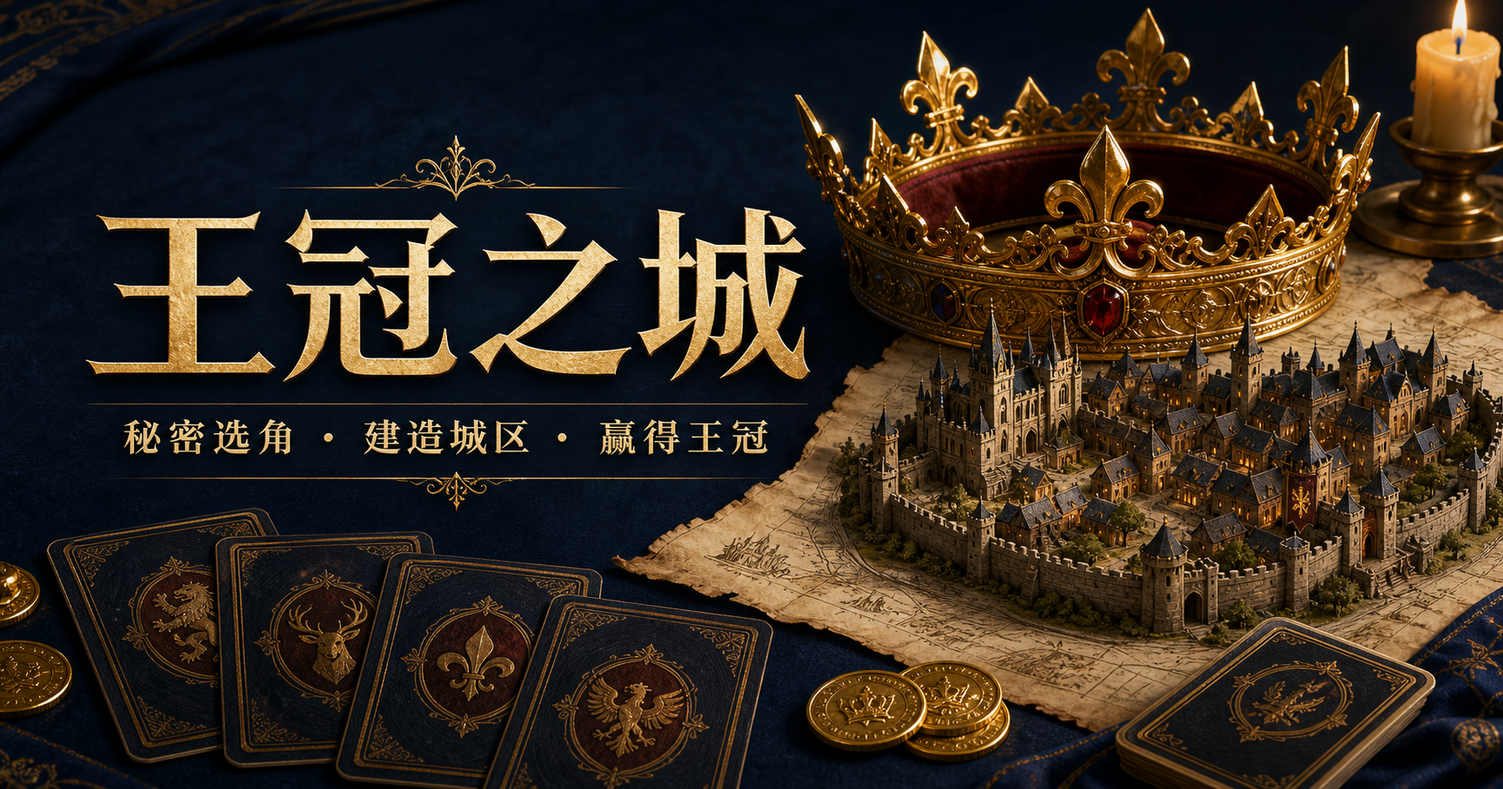
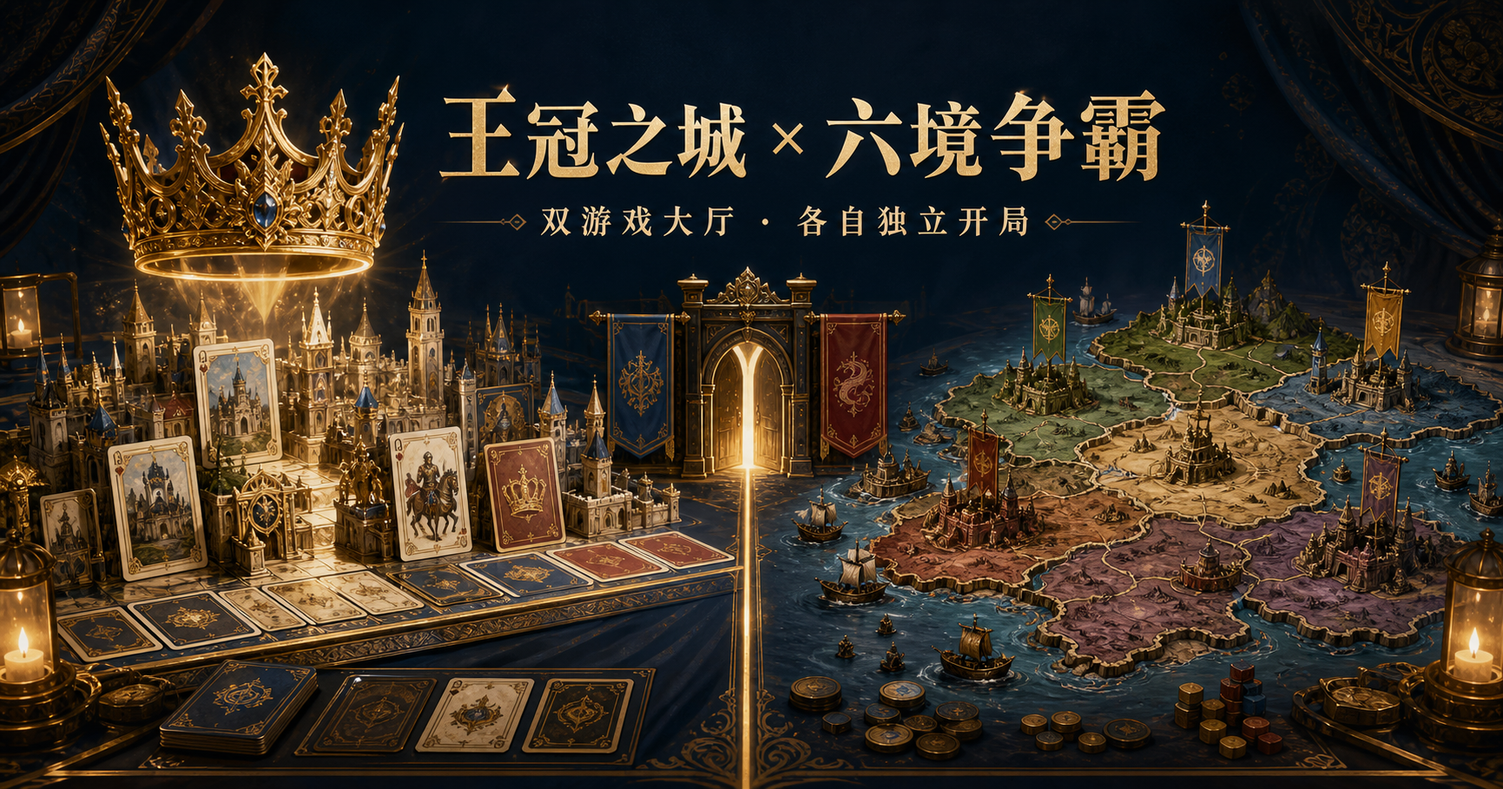
feat: split games into dedicated entrances

diff --git a/app/globals.css b/app/globals.css
@@ -31,7 +31,7 @@ button, input, select { font: inherit; }
 button { cursor: pointer; }
 button:disabled { cursor: not-allowed; opacity: 0.46; }
 
-.realms-entry-link {
+.game-hub-link {
   display: flex;
   align-items: center;
   gap: .8rem;
@@ -44,12 +44,110 @@ button:disabled { cursor: not-allowed; opacity: 0.46; }
   text-decoration: none;
   box-shadow: 0 10px 24px rgba(11, 19, 33, .16);
 }
-.realms-entry-link > span { color: var(--gold-light); font-size: 1.4rem; }
-.realms-entry-link > div { display: grid; flex: 1; gap: .1rem; }
-.realms-entry-link strong { font: 800 .82rem "Songti SC", "STSong", Georgia, serif; }
-.realms-entry-link small { color: rgba(248, 240, 223, .62); font-size: .62rem; }
-.realms-entry-link > b { color: var(--gold-light); transition: transform .18s ease; }
-.realms-entry-link:hover > b { transform: translateX(.25rem); }
+.game-hub-link > span { color: var(--gold-light); font-size: 1.4rem; }
+.game-hub-link > div { display: grid; flex: 1; gap: .1rem; }
+.game-hub-link strong { font: 800 .82rem "Songti SC", "STSong", Georgia, serif; }
+.game-hub-link small { color: rgba(248, 240, 223, .62); font-size: .62rem; }
+.game-hub-link > b { color: var(--gold-light); transition: transform .18s ease; }
+.game-hub-link:hover > b { transform: translateX(.25rem); }
+
+.hub-shell {
+  position: relative;
+  min-height: 100vh;
+  overflow: hidden;
+  color: #f8f0df;
+  background:
+    radial-gradient(circle at 12% 42%, rgba(201, 155, 69, .15), transparent 28rem),
+    radial-gradient(circle at 88% 45%, rgba(73, 122, 126, .16), transparent 30rem),
+    linear-gradient(135deg, #0d1625 0%, #15233a 50%, #0d1d25 100%);
+  isolation: isolate;
+}
+.hub-shell::before {
+  content: "";
+  position: absolute;
+  z-index: -1;
+  inset: 1.2rem;
+  border: 1px solid rgba(231, 201, 135, .14);
+  pointer-events: none;
+}
+.hub-header {
+  width: min(86rem, calc(100% - 3rem));
+  min-height: 5rem;
+  margin: 0 auto;
+  display: flex;
+  align-items: center;
+  justify-content: space-between;
+  gap: 1rem;
+  border-bottom: 1px solid rgba(231, 201, 135, .16);
+}
+.hub-brand { display: flex; align-items: center; gap: .65rem; color: inherit; text-decoration: none; }
+.hub-brand span { color: var(--gold-light); font-size: 1.5rem; }
+.hub-brand b { font: 900 .82rem "Songti SC", "STSong", Georgia, serif; letter-spacing: .16em; }
+.hub-language {
+  border: 1px solid rgba(232, 202, 131, .34);
+  border-radius: 999px;
+  padding: .42rem .72rem;
+  color: var(--gold-light);
+  background: rgba(255, 255, 255, .035);
+  font-size: .67rem;
+  font-weight: 900;
+}
+.hub-intro {
+  width: min(65rem, calc(100% - 3rem));
+  margin: clamp(3.3rem, 7vw, 6.5rem) auto clamp(2.2rem, 4vw, 3.5rem);
+  text-align: center;
+}
+.hub-kicker { margin: 0 0 1rem !important; color: var(--gold-light) !important; font: 800 .66rem Georgia, serif !important; letter-spacing: .42em; }
+.hub-intro h1 { margin: 0; font: 900 clamp(3.3rem, 7vw, 7rem)/.95 "Songti SC", "STSong", Georgia, serif; letter-spacing: -.055em; }
+.hub-intro > p:not(.hub-kicker) { max-width: 44rem; margin: 1.25rem auto 0; color: rgba(248, 240, 223, .6); font-size: .86rem; line-height: 1.85; }
+.hub-games {
+  width: min(76rem, calc(100% - 3rem));
+  margin: 0 auto;
+  display: grid;
+  grid-template-columns: repeat(2, minmax(0, 1fr));
+  gap: 1.2rem;
+}
+.hub-card {
+  position: relative;
+  min-width: 0;
+  overflow: hidden;
+  display: grid;
+  grid-template-columns: minmax(9rem, .75fr) minmax(0, 1.25fr);
+  min-height: 25rem;
+  color: inherit;
+  border: 1px solid rgba(234, 208, 150, .24);
+  background: rgba(255, 255, 255, .035);
+  text-decoration: none;
+  box-shadow: 0 24px 65px rgba(2, 8, 18, .24);
+  transition: transform .22s ease, border-color .22s ease, box-shadow .22s ease;
+}
+.hub-card:hover, .hub-card:focus-visible { transform: translateY(-5px); border-color: rgba(232, 202, 131, .58); box-shadow: 0 30px 78px rgba(2, 8, 18, .4); outline: none; }
+.hub-card-art { position: relative; overflow: hidden; display: grid; place-items: center; border-right: 1px solid rgba(234, 208, 150, .16); isolation: isolate; }
+.hub-city .hub-card-art { background: radial-gradient(circle at 50% 38%, rgba(226, 180, 82, .28), transparent 10rem), linear-gradient(165deg, #26334b, #151d2e); }
+.hub-realms .hub-card-art { background: radial-gradient(circle at 50% 42%, rgba(124, 158, 139, .26), transparent 10rem), linear-gradient(165deg, #274144, #142427); }
+.hub-card-art::before, .hub-card-art::after { content: ""; position: absolute; z-index: -1; border: 1px solid rgba(232, 202, 131, .14); transform: rotate(45deg); }
+.hub-card-art::before { width: 13rem; height: 13rem; }
+.hub-card-art::after { width: 9rem; height: 9rem; }
+.hub-card-sigil { position: relative; z-index: 2; color: #d8ae5c; font-size: clamp(4rem, 8vw, 6.5rem); line-height: 1; filter: drop-shadow(0 16px 28px rgba(0, 0, 0, .35)); }
+.city-skyline { position: absolute; bottom: 0; width: 3.2rem; background: rgba(8, 14, 25, .62); clip-path: polygon(0 100%, 0 26%, 20% 26%, 20% 10%, 36% 10%, 50% 0, 64% 10%, 80% 10%, 80% 32%, 100% 32%, 100% 100%); }
+.city-skyline-one { left: 0; height: 8rem; }
+.city-skyline-two { left: 37%; width: 4rem; height: 6rem; }
+.city-skyline-three { right: 0; height: 9.5rem; }
+.realm-contour { position: absolute; border: 1px solid rgba(218, 195, 137, .25); background: rgba(199, 164, 88, .035); transform: rotate(-13deg); }
+.realm-contour-one { width: 9rem; height: 12rem; left: -3rem; top: 2rem; border-radius: 38% 62% 49% 51% / 62% 39% 61% 38%; }
+.realm-contour-two { width: 10rem; height: 11rem; right: -4rem; bottom: 1rem; border-radius: 63% 37% 32% 68% / 40% 52% 48% 60%; }
+.realm-contour-three { width: 6rem; height: 8rem; left: 37%; bottom: -3rem; border-radius: 45% 55% 67% 33% / 56% 45% 55% 44%; }
+.hub-card-copy { display: flex; flex-direction: column; padding: clamp(1.6rem, 3vw, 2.4rem); }
+.hub-card-number { color: var(--gold-light); font: 800 .58rem Georgia, serif; letter-spacing: .32em; }
+.hub-card h2 { margin: .75rem 0 1rem; font: 900 clamp(2.3rem, 4vw, 3.6rem)/1 "Songti SC", "STSong", Georgia, serif; letter-spacing: -.045em; }
+.hub-card-copy > p { margin: 0; min-height: 4.5rem; color: rgba(248, 240, 223, .61); font-size: .74rem; line-height: 1.75; }
+.hub-card ul { display: grid; gap: .55rem; margin: 1.1rem 0 2rem; padding: 0; list-style: none; color: rgba(248, 240, 223, .72); font-size: .65rem; }
+.hub-card li::before { content: "◆"; margin-right: .55rem; color: #d8ae5c; font-size: .45rem; }
+.hub-enter { margin-top: auto; display: flex; align-items: center; justify-content: space-between; padding-top: 1rem; border-top: 1px solid rgba(232, 202, 131, .18); color: #f3d58e; font: 900 .72rem "Songti SC", "STSong", Georgia, serif; letter-spacing: .08em; }
+.hub-enter b { font-size: 1.1rem; transition: transform .2s ease; }
+.hub-card:hover .hub-enter b { transform: translateX(.3rem); }
+.hub-footer { width: min(76rem, calc(100% - 3rem)); margin: 2rem auto 0; padding: 0 0 2.6rem; display: flex; justify-content: center; align-items: center; flex-wrap: wrap; gap: .75rem; color: rgba(248, 240, 223, .42); font-size: .6rem; letter-spacing: .08em; }
+.hub-footer i { width: 2px; height: 2px; border-radius: 50%; background: var(--gold); }
 
 .reference-link {
   display: inline;
@@ -296,7 +394,8 @@ button:disabled { cursor: not-allowed; opacity: 0.46; }
 .brand span { color: var(--gold-light); margin-right: 0.5rem; }
 .round-status { color: rgba(248, 240, 223, 0.72); font-size: 0.78rem; letter-spacing: 0.1em; }
 .round-status span { color: var(--gold-light); border: 1px solid rgba(232, 202, 131, 0.28); padding: 0.3rem 0.55rem; margin-right: 0.6rem; }
-.header-room, .header-recovery, .header-leave, .header-claim, .header-history, .header-sound { color: rgba(248, 240, 223, 0.7); background: transparent; border: 0; font-size: 0.68rem; white-space: nowrap; }
+.header-room, .header-recovery, .header-leave, .header-claim, .header-history, .header-sound, .header-hub { color: rgba(248, 240, 223, 0.7); background: transparent; border: 0; font-size: 0.68rem; white-space: nowrap; }
+.header-hub { color: var(--gold-light); text-decoration: none; }
 .header-recovery { color: var(--gold-light); border-bottom: 1px dashed rgba(232,202,131,.35); }
 .header-leave { color: #efb0a8; }
 .header-history { color: var(--gold-light); }
@@ -619,6 +718,8 @@ button:disabled { cursor: not-allowed; opacity: 0.46; }
 @keyframes counterspin { to { transform: rotate(-360deg); } }
 
 @media (max-width: 980px) {
+  .hub-games { max-width: 42rem; grid-template-columns: 1fr; }
+  .hub-card { min-height: 22rem; }
   .landing-shell { grid-template-columns: 1fr; }
   .landing-copy { min-height: auto; padding: 5rem 2rem; }
   .entry-panel { min-height: 35rem; padding: 3rem 2rem; }
@@ -631,6 +732,13 @@ button:disabled { cursor: not-allowed; opacity: 0.46; }
 }
 
 @media (max-width: 680px) {
+  .hub-shell::before { inset: .55rem; }
+  .hub-header, .hub-intro, .hub-games, .hub-footer { width: calc(100% - 2rem); }
+  .hub-intro { margin-top: 3rem; }
+  .hub-intro h1 { font-size: 3.35rem; }
+  .hub-card { grid-template-columns: 1fr; min-height: 0; }
+  .hub-card-art { min-height: 11rem; border-right: 0; border-bottom: 1px solid rgba(234, 208, 150, .16); }
+  .hub-card-copy > p { min-height: 0; }
   .landing-copy { padding: 4rem 1.3rem; }
   .landing-copy::before { inset: .75rem; }
   .landing-copy h1 { font-size: 4.4rem; }
@@ -640,6 +748,7 @@ button:disabled { cursor: not-allowed; opacity: 0.46; }
   .round-status { display: none; }
   .network-status { margin-left: 0; }
   .header-room, .header-recovery { order: 10; font-size: .6rem; }
+  .header-hub { font-size: .6rem; }
   .header-history, .header-sound { font-size: .6rem; }
   .header-leave { order: 11; }
   .game-header .language-toggle { padding: .32rem .55rem; }

diff --git a/app/GameClient.tsx b/app/GameClient.tsx
@@ -457,7 +457,7 @@ function Landing({ historyKey, onCreated, onOpenRules, onOpenHistory }: { histor
         <div className="divider"><span>{text("或者输入朋友的房间码", "Or enter a friend's room code")}</span></div>
         <div className="join-row"><input className="code-input" value={code} onChange={(event) => setCode(event.target.value.toUpperCase().replace(/[^A-Z0-9]/g, "").slice(0, 4))} placeholder="AB12" maxLength={4} aria-label={text("四位房间码", "Four-character room code")} /><button className="secondary-button" onClick={() => submit("join")} disabled={busy}>{text("加入房间", "Join room")}</button></div>
         <details className="recovery-entry"><summary>{text("换设备？用恢复码返回座位", "Changed devices? Recover your seat")}</summary><label>{text("10 位恢复码", "10-character recovery code")}<input value={recoveryCode} onChange={(event) => setRecoveryCode(event.target.value.toUpperCase().replace(/[^A-Z0-9]/g, "").slice(0, 10))} placeholder="ABCD23WXYZ" maxLength={10} autoComplete="off" /></label><button className="secondary-button" onClick={() => submit("recover")} disabled={busy || code.length !== 4 || recoveryCode.length !== 10}>{text("恢复原座位", "Recover seat")}</button></details>
-        {error && <p className="form-error" role="alert">{error}</p>}<button className="history-entry-button" onClick={onOpenHistory}>♜ {text("查看历史对局", "View match history")}</button><a className="realms-entry-link" href="/realms"><span>✦</span><div><strong>{text("进入《六境争霸》", "Enter The Six Realms")}</strong><small>{text("完整第二版式版图战争 · 3–6 人", "Complete second-edition-style realm war · 3–6 players")}</small></div><b>→</b></a><p className="fine-print">{text("无需注册或模型密钥。策略电脑由服务器按规则运行；完成的对局会保存到王城档案。", "No account or model key required. Strategy AI follows the rules on the server; completed matches are saved in the city archive.")}</p>
+        {error && <p className="form-error" role="alert">{error}</p>}<button className="history-entry-button" onClick={onOpenHistory}>♜ {text("查看历史对局", "View match history")}</button><a className="game-hub-link" href="/"><span>⌂</span><div><strong>{text("返回双游戏大厅", "Back to the game hall")}</strong><small>{text("切换至《六境争霸》或重新选择游戏", "Switch to The Six Realms or choose again")}</small></div><b>→</b></a><p className="fine-print">{text("无需注册或模型密钥。策略电脑由服务器按规则运行；完成的对局会保存到王城档案。", "No account or model key required. Strategy AI follows the rules on the server; completed matches are saved in the city archive.")}</p>
       </section>
     </main>
   );
@@ -481,7 +481,7 @@ function Lobby({ game, act }: { game: Game; act: Act }) {
   const ruleset = localizedRuleset({ ...game.ruleset, roleKeys: [], uniqueKeys: [] }, language);
   const [copied, setCopied] = useState(false);
   async function shareInvite() {
-    const url = `${window.location.origin}/?room=${game.code}`;
+    const url = `${window.location.origin}/crown-city?room=${game.code}`;
     const shareData = { title: text("加入我的《王冠之城》房间", "Join my Crown City room"), text: text(`房间码 ${game.code}，点击链接加入牌桌。`, `Room ${game.code}. Open the link to join the table.`), url };
     if (navigator.share) await navigator.share(shareData); else await navigator.clipboard.writeText(`${shareData.text}\n${url}`);
     setCopied(true); window.setTimeout(() => setCopied(false), 1400);
@@ -820,7 +820,7 @@ function GameTable() {
   if (!session) return <>{rulesOpen && <RulesModal onClose={() => setRulesOpen(false)} />}{historyOpen && <HistoryModal historyKey={historyKey} onClose={() => setHistoryOpen(false)} />}<Landing historyKey={historyKey} onCreated={enter} onOpenRules={() => setRulesOpen(true)} onOpenHistory={() => setHistoryOpen(true)} /></>;
   if (!game) return <main className="loading-screen"><LanguageToggle /><span>♛</span><p>{error || text("正在返回牌桌…", "Returning to the table…")}</p><button onClick={hideTable}>{text("回到首页", "Back to home")}</button></main>;
   const host = game.players.find((player) => player.id === game.hostId);
-  return <main className={`game-shell ${busy ? "is-busy" : ""}`}>{rulesOpen && <RulesModal onClose={() => setRulesOpen(false)} />}{historyOpen && <HistoryModal historyKey={historyKey} onClose={() => setHistoryOpen(false)} />}<header className="game-header"><button className="brand" onClick={hideTable}><span>♛</span> {text("王冠之城", "Crown City")}</button><div className="round-status"><span>{phaseLabel}</span>{game.round > 0 && text(`第 ${game.round} 轮`, `Round ${game.round}`)}</div><div className={`network-status ${connection}`}><i aria-hidden="true" />{connection === "online" ? text("在线同步", "Synced") : connection === "offline" ? text("网络中断", "Offline") : text("正在连接", "Connecting")}</div><button className="header-history" onClick={() => setHistoryOpen(true)}>♜ {text("历史", "History")}</button><button className={`header-sound ${soundEnabled ? "enabled" : "muted"}`} onClick={toggleSound} aria-pressed={soundEnabled}>{soundEnabled ? "♪ " : "× "}{text(soundEnabled ? "音效" : "静音", soundEnabled ? "Sound" : "Muted")}</button><button className="header-rules" onClick={() => setRulesOpen(true)}>{text("规则书", "Rules")}</button><LanguageToggle /><button className="header-room" onClick={() => navigator.clipboard.writeText(`${window.location.origin}/?room=${game.code}`)}>{text(`房间 ${game.code} · 复制邀请`, `Room ${game.code} · Copy invite`)}</button><button className="header-recovery" onClick={copyRecoveryCode}>{session.recoveryCode ? text(`恢复码 ${session.recoveryCode} · 复制`, `Recovery ${session.recoveryCode} · Copy`) : text("生成恢复码", "Create recovery code")}</button><button className="header-leave" onClick={leaveSeat}>{text("退出牌局", "Leave table")}</button>{game.viewerId !== game.hostId && host && !host.isBot && !host.isOnline && <button className="header-claim" onClick={() => act("claimHost")}>{text("接任房主", "Take host")}</button>}</header><PlayerStrip game={game} act={act} />{game.status !== "lobby" && <RoundRoleTrack game={game} />}{error && <div className="toast" role="alert">{error}<button onClick={() => setError("")}>×</button></div>}{game.status === "lobby" && <Lobby game={game} act={act} />}{game.status === "draft" && <Draft game={game} act={act} />}{game.status === "theater" && <TheaterPhase game={game} act={act} />}{game.status === "turns" && <Turns game={game} act={act} />}{game.status === "finished" && <Finished game={game} act={act} />}</main>;
+  return <main className={`game-shell ${busy ? "is-busy" : ""}`}>{rulesOpen && <RulesModal onClose={() => setRulesOpen(false)} />}{historyOpen && <HistoryModal historyKey={historyKey} onClose={() => setHistoryOpen(false)} />}<header className="game-header"><button className="brand" onClick={hideTable}><span>♛</span> {text("王冠之城", "Crown City")}</button><div className="round-status"><span>{phaseLabel}</span>{game.round > 0 && text(`第 ${game.round} 轮`, `Round ${game.round}`)}</div><div className={`network-status ${connection}`}><i aria-hidden="true" />{connection === "online" ? text("在线同步", "Synced") : connection === "offline" ? text("网络中断", "Offline") : text("正在连接", "Connecting")}</div><button className="header-history" onClick={() => setHistoryOpen(true)}>♜ {text("历史", "History")}</button><button className={`header-sound ${soundEnabled ? "enabled" : "muted"}`} onClick={toggleSound} aria-pressed={soundEnabled}>{soundEnabled ? "♪ " : "× "}{text(soundEnabled ? "音效" : "静音", soundEnabled ? "Sound" : "Muted")}</button><button className="header-rules" onClick={() => setRulesOpen(true)}>{text("规则书", "Rules")}</button><LanguageToggle /><a className="header-hub" href="/">{text("游戏大厅", "Game hall")}</a><button className="header-room" onClick={() => navigator.clipboard.writeText(`${window.location.origin}/crown-city?room=${game.code}`)}>{text(`房间 ${game.code} · 复制邀请`, `Room ${game.code} · Copy invite`)}</button><button className="header-recovery" onClick={copyRecoveryCode}>{session.recoveryCode ? text(`恢复码 ${session.recoveryCode} · 复制`, `Recovery ${session.recoveryCode} · Copy`) : text("生成恢复码", "Create recovery code")}</button><button className="header-leave" onClick={leaveSeat}>{text("退出牌局", "Leave table")}</button>{game.viewerId !== game.hostId && host && !host.isBot && !host.isOnline && <button className="header-claim" onClick={() => act("claimHost")}>{text("接任房主", "Take host")}</button>}</header><PlayerStrip game={game} act={act} />{game.status !== "lobby" && <RoundRoleTrack game={game} />}{error && <div className="toast" role="alert">{error}<button onClick={() => setError("")}>×</button></div>}{game.status === "lobby" && <Lobby game={game} act={act} />}{game.status === "draft" && <Draft game={game} act={act} />}{game.status === "theater" && <TheaterPhase game={game} act={act} />}{game.status === "turns" && <Turns game={game} act={act} />}{game.status === "finished" && <Finished game={game} act={act} />}</main>;
 }
 
 export function GameClient() {

diff --git a/app/realms/RealmsClient.tsx b/app/realms/RealmsClient.tsx
@@ -179,7 +179,7 @@ export function RealmsClient() {
   };
 
   if (!game) return <main className="realms-landing">
-    <nav className="realm-nav"><Link href="/">← {text("王冠之城", "Crown City")}</Link><button onClick={changeLanguage}>{language === "zh" ? "EN" : "中文"}</button><button onClick={() => setRulesOpen(true)}>{text("完整规则", "Full rules")}</button></nav>
+    <nav className="realm-nav"><Link href="/">← {text("双游戏大厅", "Game hall")}</Link><button onClick={changeLanguage}>{language === "zh" ? "EN" : "中文"}</button><button onClick={() => setRulesOpen(true)}>{text("完整规则", "Full rules")}</button></nav>
     <section className="realm-hero"><div className="realm-kicker">THE SIX REALMS</div><div className="realm-sigil">✦</div><h1>{text("六境争霸", "The Six Realms")}</h1><p>{text("秘密下令，公开结盟，在十轮战争中夺取七座城堡。", "Issue secret orders, forge public alliances, and claim seven castles before the tenth round ends.")}</p><div className="realm-pill-row"><span>{text("3–6 人", "3–6 players")}</span><span>{text("完整命令系统", "Complete order system")}</span><span>{text("联网保存", "Persistent online rooms")}</span><span>{text("策略电脑", "Strategic AI")}</span></div></section>
     <section className="realm-entry"><h2>{text("召集战争议会", "Convene the war council")}</h2><label>{text("领主姓名", "Your name")}<input value={name} onChange={(event) => setName(event.target.value)} maxLength={16} /></label><div className="realm-entry-grid"><label>{text("电脑势力", "AI factions")}<select value={botCount} onChange={(event) => setBotCount(Number(event.target.value))}>{[2,3,4,5].map((count) => <option key={count} value={count}>{count}</option>)}</select></label><p>{text("基础游戏完整规则 · 无需模型 API", "Complete base-game rules · no model API")}</p></div><button className="realm-primary" disabled={busy} onClick={() => enter("create")}>{text("创建新战局", "Create campaign")}</button><div className="realm-divider">{text("或加入朋友", "or join friends")}</div><div className="realm-join"><input value={code} onChange={(event) => setCode(event.target.value.toUpperCase().replace(/[^A-Z0-9]/g, "").slice(0,4))} placeholder="AB12" /><button disabled={busy || code.length !== 4} onClick={() => enter("join")}>{text("加入", "Join")}</button></div><details><summary>{text("使用恢复码返回座位", "Recover a seat")}</summary><input value={recovery} onChange={(event) => setRecovery(event.target.value.toUpperCase().replace(/[^A-Z0-9]/g, "").slice(0,10))} placeholder="10 位恢复码" /><button onClick={() => enter("recover")} disabled={recovery.length !== 10}>{text("恢复", "Recover")}</button></details>{error && <p className="realm-error">{error}</p>}</section>
     {rulesOpen && <RulesModal language={language} onClose={() => setRulesOpen(false)} />}
@@ -204,7 +204,7 @@ function RealmTable({ game, session, language, act, busy, error, onRules, onLang
     if (!selectableAreaIds.length || selectableAreaIds.includes(areaId)) setSelectedAreaId(areaId);
   };
   return <main className="realm-table" style={{ "--my-faction": faction?.color ?? "#b69655" } as CSSProperties}>
-    <header className="realm-header"><div><Link href="/realms" className="realm-brand">✦ {text("六境争霸", "The Six Realms")}</Link><span>{text(`房间 ${game.code}`, `Room ${game.code}`)}</span><span>{text(`第 ${game.round}/10 轮`, `Round ${game.round}/10`)}</span></div><div>{game.viewerId !== game.hostId && host && !host.isBot && !host.isOnline && <button onClick={() => act("claimHost")}>{text("接任房主", "Take host")}</button>}<button onClick={() => navigator.clipboard.writeText(`${window.location.origin}/realms?room=${game.code}`)}>{text("复制邀请", "Copy invite")}</button>{session.recoveryCode && <button onClick={() => navigator.clipboard.writeText(session.recoveryCode!)}>{text(`恢复码 ${session.recoveryCode}`, `Recovery ${session.recoveryCode}`)}</button>}<button onClick={onLanguage}>{language === "zh" ? "EN" : "中文"}</button><button onClick={onRules}>{text("规则书", "Rules")}</button></div></header>
+    <header className="realm-header"><div><Link href="/realms" className="realm-brand">✦ {text("六境争霸", "The Six Realms")}</Link><span>{text(`房间 ${game.code}`, `Room ${game.code}`)}</span><span>{text(`第 ${game.round}/10 轮`, `Round ${game.round}/10`)}</span></div><div>{game.viewerId !== game.hostId && host && !host.isBot && !host.isOnline && <button onClick={() => act("claimHost")}>{text("接任房主", "Take host")}</button>}<Link className="realm-hub-link" href="/">{text("游戏大厅", "Game hall")}</Link><button onClick={() => navigator.clipboard.writeText(`${window.location.origin}/realms?room=${game.code}`)}>{text("复制邀请", "Copy invite")}</button>{session.recoveryCode && <button onClick={() => navigator.clipboard.writeText(session.recoveryCode!)}>{text(`恢复码 ${session.recoveryCode}`, `Recovery ${session.recoveryCode}`)}</button>}<button onClick={onLanguage}>{language === "zh" ? "EN" : "中文"}</button><button onClick={onRules}>{text("规则书", "Rules")}</button></div></header>
     <section className="realm-phase"><div><small>{text("当前阶段", "Current phase")}</small><strong>{(PHASE_LABELS[game.phase] ?? [game.phase, game.phase])[language === "zh" ? 0 : 1]}</strong></div><p>{current ? text(`等待 ${current.name} 决定`, `Waiting for ${current.name}`) : game.phase === "planning" ? text("所有势力同时秘密下令", "All factions assign orders simultaneously") : text("服务器正在结算", "Resolving on the server")}</p><div className="wildling-meter"><span>{text("荒境威胁", "Frontier threat")}</span><b>{game.wildlingThreat}/12</b></div></section>
     <PlayerRibbon game={game} language={language} act={act} />
     <div className="realm-main-grid"><section className="realm-map-wrap"><RealmMap game={game} language={language} inspectedKey={inspectedAreaId} actionKey={selectedAreaId} onInspect={inspectArea} selectableAreaIds={selectableAreaIds} /></section><aside className="realm-command"><ActionPanel game={game} me={me} language={language} act={act} busy={busy} selectedAreaId={selectedAreaId} onSelectArea={selectActionArea} />{error && <p className="realm-error">{error}</p>}<Chronicle game={game} language={language} /></aside></div>

diff --git a/app/HomeClient.tsx b/app/HomeClient.tsx
@@ -1,0 +1,98 @@
+"use client";
+
+import Link from "next/link";
+import { useEffect, useState } from "react";
+
+type Language = "zh" | "en";
+
+export function HomeClient() {
+  const [language, setLanguage] = useState<Language>("zh");
+  const text = (zh: string, en: string) => language === "zh" ? zh : en;
+
+  useEffect(() => {
+    const params = new URLSearchParams(window.location.search);
+    if (params.get("room")) {
+      window.location.replace(`/crown-city${window.location.search}${window.location.hash}`);
+      return;
+    }
+    const saved = window.localStorage.getItem("crown-city-language") ?? window.localStorage.getItem("six-realms-language");
+    if (saved === "en") setLanguage("en");
+  }, []);
+
+  function changeLanguage() {
+    const next: Language = language === "zh" ? "en" : "zh";
+    setLanguage(next);
+    window.localStorage.setItem("crown-city-language", next);
+    window.localStorage.setItem("six-realms-language", next);
+  }
+
+  return (
+    <main className="hub-shell">
+      <header className="hub-header">
+        <a className="hub-brand" href="#games" aria-label={text("前往游戏选择", "Go to game selection")}>
+          <span aria-hidden="true">♛</span>
+          <b>{text("王冠游戏厅", "Crown Game Hall")}</b>
+        </a>
+        <button className="hub-language" onClick={changeLanguage} aria-label={text("切换为英文", "Switch to Chinese")}>
+          {language === "zh" ? "EN" : "中文"}
+        </button>
+      </header>
+
+      <section className="hub-intro">
+        <p className="hub-kicker">TWO TABLES · TWO WORLDS</p>
+        <h1>{text("选择你的战场", "Choose your battlefield")}</h1>
+        <p>{text("两款游戏现已完全分开。每一款都有自己的入口、房间和规则，不再需要从另一款游戏中跳转。", "The two games now have independent entrances, rooms, and rules—no more crossing through one game to reach the other.")}</p>
+      </section>
+
+      <section className="hub-games" id="games" aria-label={text("选择游戏", "Choose a game")}>
+        <Link className="hub-card hub-city" href="/crown-city">
+          <div className="hub-card-art" aria-hidden="true">
+            <span className="hub-card-sigil">♛</span>
+            <i className="city-skyline city-skyline-one" />
+            <i className="city-skyline city-skyline-two" />
+            <i className="city-skyline city-skyline-three" />
+          </div>
+          <div className="hub-card-copy">
+            <div className="hub-card-number">GAME 01</div>
+            <h2>{text("王冠之城", "Crown City")}</h2>
+            <p>{text("秘密选择身份，发动角色能力，建造价值最高的城市。", "Draft secret identities, wield character powers, and build the most valuable city.")}</p>
+            <ul>
+              <li>{text("2–8 人", "2–8 players")}</li>
+              <li>{text("选角与城市建造", "Drafting & city building")}</li>
+              <li>{text("支持策略电脑", "Strategy AI included")}</li>
+            </ul>
+            <span className="hub-enter">{text("进入王城", "Enter Crown City")} <b>→</b></span>
+          </div>
+        </Link>
+
+        <Link className="hub-card hub-realms" href="/realms">
+          <div className="hub-card-art" aria-hidden="true">
+            <span className="hub-card-sigil">✦</span>
+            <i className="realm-contour realm-contour-one" />
+            <i className="realm-contour realm-contour-two" />
+            <i className="realm-contour realm-contour-three" />
+          </div>
+          <div className="hub-card-copy">
+            <div className="hub-card-number">GAME 02</div>
+            <h2>{text("六境争霸", "The Six Realms")}</h2>
+            <p>{text("秘密下令、调动军队、争夺城堡，在十轮内统一六境。", "Issue secret orders, move armies, seize strongholds, and unite the realms within ten rounds.")}</p>
+            <ul>
+              <li>{text("3–6 人", "3–6 players")}</li>
+              <li>{text("版图战争与外交", "Realm war & diplomacy")}</li>
+              <li>{text("完整在线版图", "Complete online board")}</li>
+            </ul>
+            <span className="hub-enter">{text("进入六境", "Enter the Six Realms")} <b>→</b></span>
+          </div>
+        </Link>
+      </section>
+
+      <footer className="hub-footer">
+        <span>{text("无需注册", "No registration")}</span>
+        <i aria-hidden="true" />
+        <span>{text("各自独立房间", "Independent rooms")}</span>
+        <i aria-hidden="true" />
+        <span>{text("朋友与电脑均可加入", "Friends and AI welcome")}</span>
+      </footer>
+    </main>
+  );
+}

diff --git a/app/layout.tsx b/app/layout.tsx
@@ -12,9 +12,9 @@ export async function generateMetadata(): Promise<Metadata> {
     requestHeaders.get("x-forwarded-proto") ??
     (host.includes("localhost") ? "http" : "https");
   const origin = `${protocol}://${host}`;
-  const title = "王冠之城｜线上秘密选角桌游";
+  const title = "王冠游戏厅｜王冠之城 × 六境争霸";
   const description =
-    "邀请朋友进入同一房间，秘密选择角色、获取金币并建造属于你们的城市。";
+    "两款独立在线策略桌游：秘密选角建造王城，或秘密下令统一六境。";
 
   return {
     title,
@@ -24,7 +24,7 @@ export async function generateMetadata(): Promise<Metadata> {
       title,
       description,
       type: "website",
-      images: [{ url: `${origin}/og.png`, width: 1731, height: 909, alt: "王冠之城" }],
+      images: [{ url: `${origin}/og.png`, width: 1731, height: 909, alt: "王冠之城与六境争霸双游戏大厅" }],
     },
     twitter: {
       card: "summary_large_image",

diff --git a/app/realms/realms.css b/app/realms/realms.css
@@ -133,6 +133,7 @@
 .realm-header span { color: rgba(242, 234, 216, .62); font-size: .68rem; }
 .realm-brand { color: #e4cd92; text-decoration: none; font: 900 1.05rem "Songti SC", STSong, Georgia, serif; }
 .realm-header button { padding: .42rem .65rem; font-size: .68rem; }
+.realm-hub-link { border: 1px solid rgba(230, 205, 145, .35); border-radius: 2px; padding: .42rem .65rem; color: #eadcb9; background: rgba(255, 255, 255, .035); font-size: .68rem; text-decoration: none; }
 
 .realm-phase {
   display: grid;

diff --git a/app/crown-city/page.tsx b/app/crown-city/page.tsx
@@ -1,0 +1,11 @@
+import type { Metadata } from "next";
+import { GameClient } from "../GameClient";
+
+export const metadata: Metadata = {
+  title: "王冠之城｜线上秘密选角桌游",
+  description: "邀请朋友进入同一房间，秘密选择角色、获取金币并建造属于你们的城市。",
+};
+
+export default function CrownCityPage() {
+  return <GameClient />;
+}

diff --git a/app/page.tsx b/app/page.tsx
@@ -1,5 +1,5 @@
-import { GameClient } from "./GameClient";
+import { HomeClient } from "./HomeClient";
 
 export default function Home() {
-  return <GameClient />;
+  return <HomeClient />;
 }
